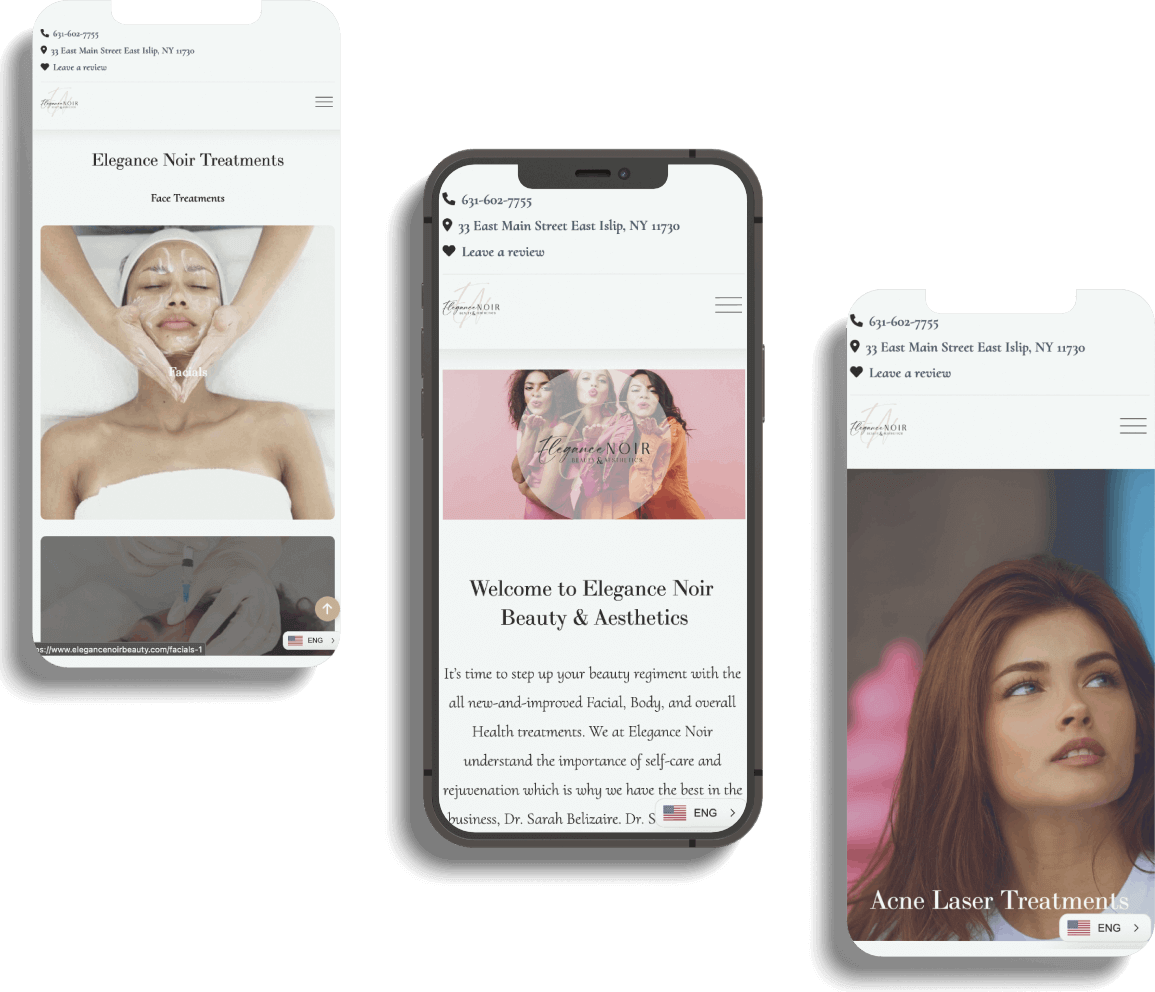
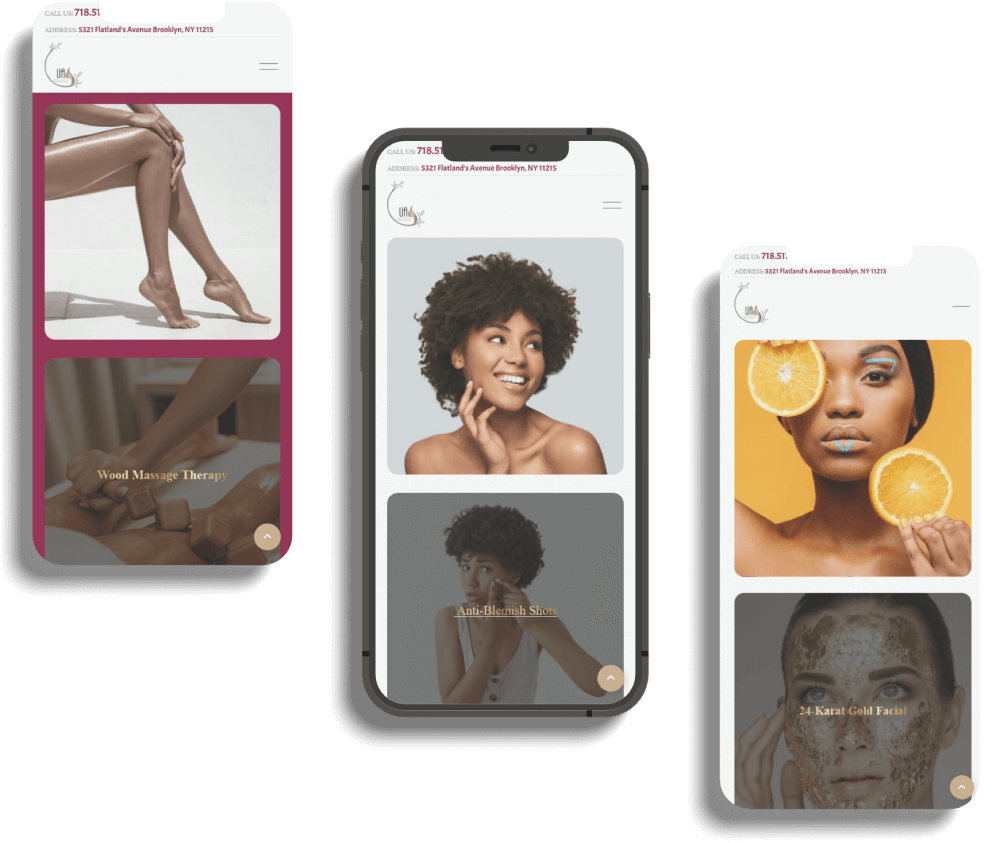
updated all desktop development section with text and images and updated mobile development text and images

diff --git a/stylesheets/scss/style.css b/stylesheets/scss/style.css
@@ -416,86 +416,55 @@ nav .nav-list-container .nav-list li a:hover::after {
   -webkit-box-pack: center;
       -ms-flex-pack: center;
           justify-content: center;
+  -webkit-box-align: center;
+      -ms-flex-align: center;
+          align-items: center;
   padding: 75px 50px;
   background-color: #fff;
   height: auto;
 }
 
 #webdev-page .website-development-projects .col-1-of-2 {
-  width: 45%;
+  width: 50%;
 }
 
 #webdev-page .website-development-projects .col-1-of-2 .title-container {
   width: 80%;
   margin: 0 auto;
-  text-align: center;
+  display: -webkit-box;
+  display: -ms-flexbox;
+  display: flex;
+  text-align: left;
+  -webkit-box-pack: center;
+      -ms-flex-pack: center;
+          justify-content: center;
+  -webkit-box-orient: vertical;
+  -webkit-box-direction: normal;
+      -ms-flex-direction: column;
+          flex-direction: column;
 }
 
 #webdev-page .website-development-projects .col-1-of-2 .title-container h2 {
   margin-bottom: 10px;
+  text-align: left;
 }
 
 #webdev-page .website-development-projects .col-1-of-2 .title-container .benefits {
   display: -webkit-box;
   display: -ms-flexbox;
   display: flex;
-  -webkit-box-pack: space-evenly;
-      -ms-flex-pack: space-evenly;
-          justify-content: space-evenly;
-  margin-top: 20px;
+  -webkit-box-pack: justify;
+      -ms-flex-pack: justify;
+          justify-content: space-between;
+  margin-top: 5px;
+}
+
+#webdev-page .website-development-projects .col-1-of-2 .title-container .benefits p {
+  margin: 10px 0;
 }
 
 #webdev-page .website-development-projects .col-1-of-2 .title-container .benefits i {
   color: #2ecc71;
-}
-
-#webdev-page .website-development-projects .col-1-of-2 .floating {
-  -webkit-animation-name: floating;
-          animation-name: floating;
-  -webkit-animation-duration: 3s;
-          animation-duration: 3s;
-  -webkit-animation-iteration-count: infinite;
-          animation-iteration-count: infinite;
-  -webkit-animation-timing-function: ease-in-out;
-          animation-timing-function: ease-in-out;
-  margin-left: 30px;
-  margin-top: 5px;
-}
-
-@-webkit-keyframes floating {
-  0% {
-    -webkit-transform: translate(0, 0px);
-            transform: translate(0, 0px);
-  }
-  50% {
-    -webkit-transform: translate(0, 15px);
-            transform: translate(0, 15px);
-  }
-  100% {
-    -webkit-transform: translate(0, 0px);
-            transform: translate(0, 0px);
-  }
-}
-
-@keyframes floating {
-  0% {
-    -webkit-transform: translate(0, 0px);
-            transform: translate(0, 0px);
-  }
-  50% {
-    -webkit-transform: translate(0, 15px);
-            transform: translate(0, 15px);
-  }
-  100% {
-    -webkit-transform: translate(0, 0px);
-            transform: translate(0, 0px);
-  }
-}
-
-#webdev-page .website-development-projects .col-1-of-2 .title-container {
-  -webkit-box-pack: center;
-      -ms-flex-pack: center;
-          justify-content: center;
 }
 
 #webdev-page .website-development-projects-2 {
@@ -511,7 +480,7 @@ nav .nav-list-container .nav-list li a:hover::after {
 }
 
 #webdev-page .website-development-projects-2 .col-1-of-2 {
-  width: 45%;
+  width: 50%;
   margin: 0 auto;
 }
 
@@ -523,53 +492,34 @@ nav .nav-list-container .nav-list li a:hover::after {
 #webdev-page .website-development-projects-2 .col-1-of-2 .title-container {
   width: 80%;
   margin: 0 auto;
-  text-align: center;
+  display: -webkit-box;
+  display: -ms-flexbox;
+  display: flex;
+  text-align: left;
+  -webkit-box-pack: center;
+      -ms-flex-pack: center;
+          justify-content: center;
+  -webkit-box-orient: vertical;
+  -webkit-box-direction: normal;
+      -ms-flex-direction: column;
+          flex-direction: column;
 }
 
 #webdev-page .website-development-projects-2 .col-1-of-2 .title-container h2 {
   margin-bottom: 10px;
+  text-align: left;
 }
 
 #webdev-page .website-development-projects-2 .col-1-of-2 .title-container .benefits {
-  display: -webkit-box;
-  display: -ms-flexbox;
-  display: flex;
-  -webkit-box-pack: space-evenly;
-      -ms-flex-pack: space-evenly;
-          justify-content: space-evenly;
   margin-top: 20px;
+}
+
+#webdev-page .website-development-projects-2 .col-1-of-2 .title-container .benefits p {
+  margin: 10px 0;
 }
 
 #webdev-page .website-development-projects-2 .col-1-of-2 .title-container .benefits i {
   color: #2ecc71;
-}
-
-#webdev-page .website-development-projects-2 .col-1-of-2 .floating {
-  -webkit-animation-name: floating;
-          animation-name: floating;
-  -webkit-animation-duration: 3s;
-          animation-duration: 3s;
-  -webkit-animation-iteration-count: infinite;
-          animation-iteration-count: infinite;
-  -webkit-animation-timing-function: ease-in-out;
-          animation-timing-function: ease-in-out;
-  margin-left: 30px;
-  margin-top: 5px;
-}
-
-@keyframes floating {
-  0% {
-    -webkit-transform: translate(0, 0px);
-            transform: translate(0, 0px);
-  }
-  50% {
-    -webkit-transform: translate(0, 15px);
-            transform: translate(0, 15px);
-  }
-  100% {
-    -webkit-transform: translate(0, 0px);
-            transform: translate(0, 0px);
-  }
 }
 
 /* --------------------------------------- */

diff --git a/stylesheets/scss/style.scss b/stylesheets/scss/style.scss
@@ -416,52 +416,40 @@ nav {
 #webdev-page .website-development-projects {
     display: flex;
     justify-content: center;
+    align-items: center;
     padding: 75px 50px;
     background-color: #fff;
     height: auto;
 
     .col-1-of-2 {
-        width: 45%;
+        width: 50%;
 
         .title-container {
             width: 80%;
             margin: 0 auto;
-            text-align: center;
+            display: flex;
+            text-align: left;
+            justify-content: center;
+            flex-direction: column;
 
             h2 {
                 margin-bottom: 10px;
+                text-align: left;
             }
 
             .benefits {
                 display: flex;
-                justify-content: space-evenly;
-                margin-top: 20px;
+                justify-content: space-between;
+                margin-top: 5px;
+
+                p {
+                    margin: 10px 0;
+                }
 
                 i {
                     color: #2ecc71;
                 }
             }
-        }
-
-        
-
-        .floating { 
-            animation-name: floating;
-            animation-duration: 3s;
-            animation-iteration-count: infinite;
-            animation-timing-function: ease-in-out;
-            margin-left: 30px;
-            margin-top: 5px;
-        }
-
-        @keyframes floating {
-            0% { transform: translate(0,  0px); }
-            50%  { transform: translate(0, 15px); }
-            100%   { transform: translate(0, -0px); }   
-        }
-
-        .title-container {
-            justify-content: center;
         }
     }
 }
@@ -474,47 +462,37 @@ nav {
     height: auto;
 
     .col-1-of-2 {
-        width: 45%;
+        width: 50%;
         margin: 0 auto;
 
         .image-container img {
-            transform: rotateY(180deg);
+            transform: rotateY(180deg); 
         }
+
         .title-container {
             width: 80%;
             margin: 0 auto;
-            text-align: center;
+            display: flex;
+            text-align: left;
+            justify-content: center;
+            flex-direction: column;
 
             h2 {
                 margin-bottom: 10px;
+                text-align: left;
             }
 
             .benefits {
-                display: flex;
-                justify-content: space-evenly;
                 margin-top: 20px;
+
+                p {
+                    margin: 10px 0;
+                }
 
                 i {
                     color: #2ecc71;
                 }
             }
-        }
-
-        
-
-        .floating { 
-            animation-name: floating;
-            animation-duration: 3s;
-            animation-iteration-count: infinite;
-            animation-timing-function: ease-in-out;
-            margin-left: 30px;
-            margin-top: 5px;
-        }
-
-        @keyframes floating {
-            0% { transform: translate(0,  0px); }
-            50%  { transform: translate(0, 15px); }
-            100%   { transform: translate(0, -0px); }   
         }
     }
 }

diff --git a/website-development.html b/website-development.html
@@ -123,7 +123,7 @@
         <section class="website-development-projects">
             <div class='col-1-of-2'>
                 <div class='image-container'>
-                    <img src="/assets/Client Website Images/Images/first-webdevelopment-image.png" alt="">
+                    <img src="/assets/Client Website Images/Images/first-webdevelopment-image-2.jpg" alt="">
                 </div>
             </div>
             <div class='col-1-of-2'>
@@ -139,8 +139,8 @@
                         <p><i class='fa fa-check'></i> High-resolution images </p>
                     </div>
                     <div class='benefits'>
-                        <p><i class='fa fa-check'></i>  Indivualized website design </p>
-                        <p><i class='fa fa-check'></i>  Improve Google ranking  </p>
+                        <p><i class='fa fa-check'></i>  Custom website design </p>
+                        <p><i class='fa fa-check'></i>  Boost Google ranking  </p>
                     </div>
                 </div>
                
@@ -152,17 +152,20 @@
                 <div class='title-container'>
                     <h2>Mobile Development</h2>
                     <p>Mobile development and mobile design are extremely important for any business. The reason being is that around 65% - 70% of customers and or clients use their mobile devices to make purchases online. It's imperative that your business look, feel and function smoothly to ensure a fluid customer experiene. My main goal is to take your clients from the moment of entering your website to checkout as fast as possible to ensure the sale. </p>
-                    </br>   
 
                     <div class='benefits'>
-                        <p><i class='fa fa-check'></i> Easy-to-use mobile nav </p>
+                        <p><i class='fa fa-check'></i> Easy-to-use mobile navigation </p>
                       
-                        <p><i class='fa fa-check'></i> Call functionality </p>
+                        <p><i class='fa fa-check'></i> Call icon/button implentation </p>
+
+                        <p><i class='fa fa-check'></i> Each mobile page has a purpose </p>
                     </div>
                     <div class='benefits'>
-                        <p><i class='fa fa-check'></i> Online scheduler </p>
+                        <p><i class='fa fa-check'></i> Online appointment scheduler </p>
 
-                        <p><i class='fa fa-check'></i> Accept credit cards online </p>
+                        <p><i class='fa fa-check'></i> Functionality to accept credit cards </p>
+
+                        <p><i class='fa fa-check'></i> Fast &amp; Powerful mobile experinece </p>
                     </div>
                 </div>
             </div>
